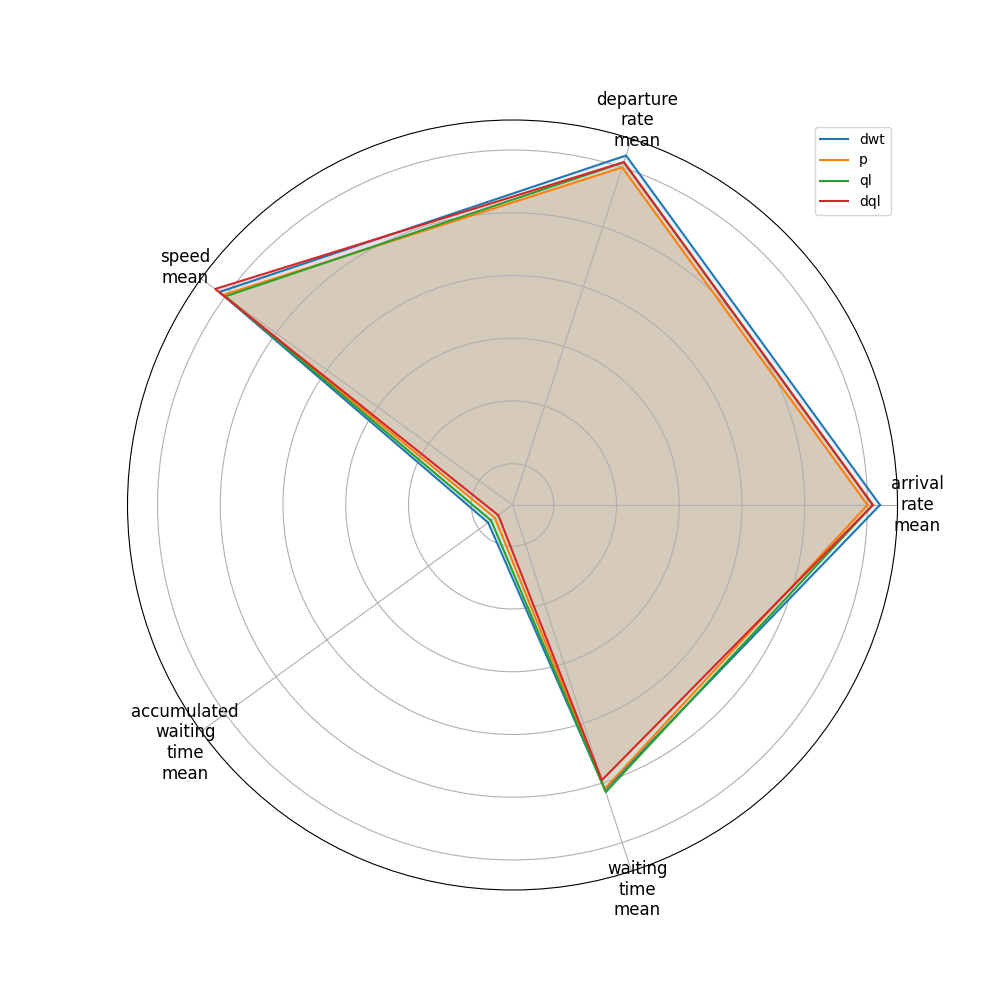
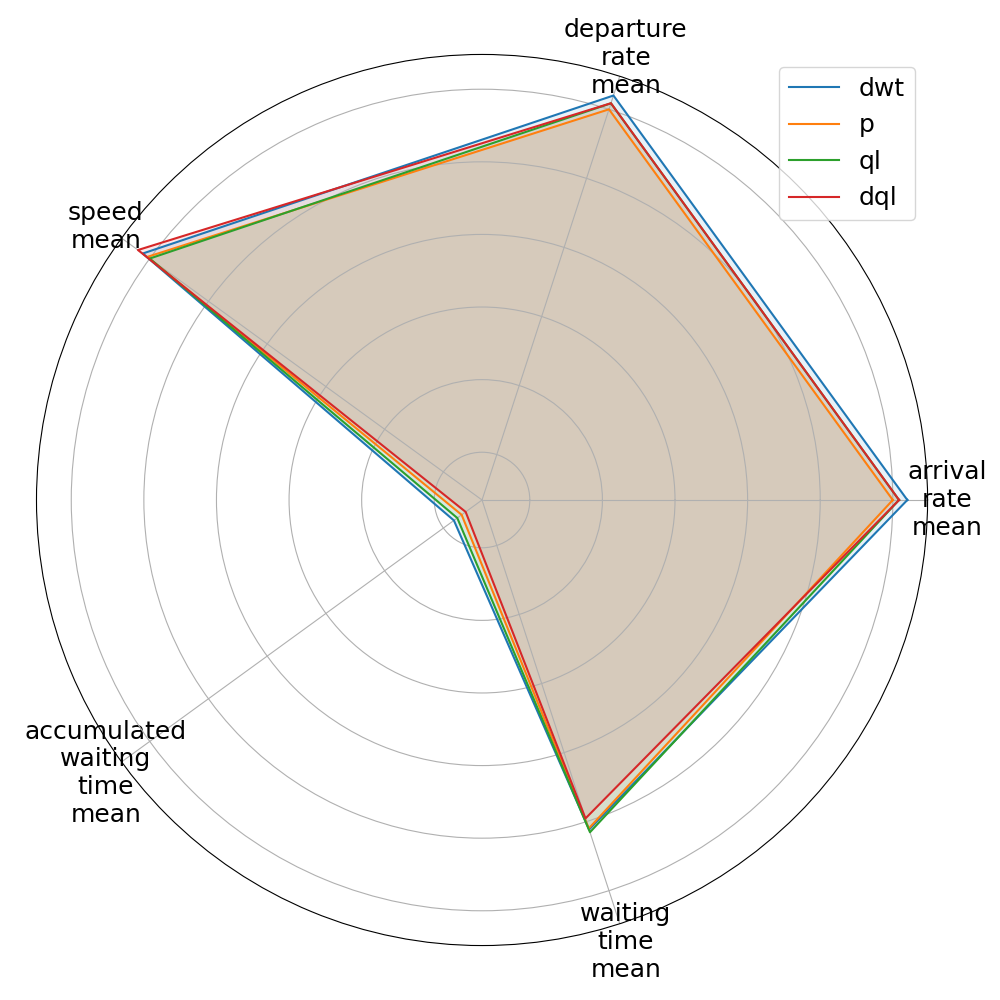
removed RO 5

diff --git a/chapters/experiments.tex b/chapters/experiments.tex
@@ -29,13 +29,13 @@ These configurations have been then evaluated with five runs each (using the sam
 As can be seen in Figure \ref{fig:exp-1-rew-b}, which summarizes the results in a radar plot, the \textit{DiffWaitingTime} (dwt) reward function excels among the other because it grants lower (accumulated) waiting times and is among the highest for average speed, departure rate and arrival rate.
 Meaning that more vehicles can use the intersection network, they can arrive faster at destination and have to wait less time.
 
-\putimage{figures/exp/exp-1-rew-b.png}{Comparison of DiffWaitingTime (dwt), QueueLength (ql), DiffQueueLength (dql) and Pressure (p) reward functions.}{fig:exp-1-rew-b}{1.0}
-
-In the above graph the AverageSpeed (as) reward function is missing, but for a good reason.
+In the last graph the AverageSpeed (as) reward function is missing, but for a good reason.
 As can be seen in Figure \ref{fig:exp-1-rew-a}, AverageSpeed grants a higher average speed but leads to a way worse accumulated waiting time, meaning that at the end of their journey, those vehicles would have been waiting for at least double the time.
 Since its performance are notably worse, to increase the readibility of the previous plot, this component has been removed.
 
-\putimage{figures/exp/exp-1-rew-a.png}{Comparison of DiffWaitingTime (dwt), AverageSpeed (as), QueueLength (ql), DiffQueueLength (dql) and Pressure (p) reward functions.}{fig:exp-1-rew-a}{1.0}
+\putimage{figures/exp/exp-1-rew-b.png}{Comparison of DiffWaitingTime (dwt), QueueLength (ql), DiffQueueLength (dql) and Pressure (p) reward functions.}{fig:exp-1-rew-b}{0.75}
+
+\putimage{figures/exp/exp-1-rew-a.png}{Comparison of DiffWaitingTime (dwt), AverageSpeed (as), QueueLength (ql), DiffQueueLength (dql) and Pressure (p) reward functions.}{fig:exp-1-rew-a}{0.75}
 
 \subsection{RQ 1.2 - Which is the best implemented observation function?}
 
@@ -48,14 +48,14 @@ This means that drivers may feel to be waiting less but in average their travel 
 Both the metric are important to evaluate how much a driver get stuck in traffic jams, since a lower waiting time score may means an higher frequency acceleration-deceleration cycles.
 Every time that a vehicle moves, the waiting time metric get zeroed, since it only measures how much time a driver has been standing still in a precise moment in time.
 
-\putimage{figures/exp/exp-1-obs-b.png}{Comparison of Default (default), Speed (s), Density (d) and Queue (q) observation functions.}{fig:exp-1-obs-b}{1.0}
-
-In the above graphs the Default observation function is missing, but for a good reason.
+In the last graphs the Default observation function is missing, but for a good reason.
 As can be seen in Figure \ref{fig:exp-1-obs-a}, Default grants a higher average speed but leads to a way worse accumulated waiting time, meaning that at the end of their journey, those vehicles would have been waiting for at least double the time.
 Since its performance are notably worse, to increase the readibility of the previous plot, this component has been removed.
 A possible reason to explain this phenomenon is the fact that the state space size of the Default function is way bigger than the rest, thus increasing the sparsity of state information and making it more difficult to capture relevant features.
 
-\putimage{figures/exp/exp-1-obs-a.png}{Comparison of Speed (s), Density (d) and Queue (q) observation functions.}{fig:exp-1-obs-a}{1.0}
+\putimage{figures/exp/exp-1-obs-b.png}{Comparison of Speed (s), Density (d) and Queue (q) observation functions.}{fig:exp-1-obs-b}{0.75}
+
+\putimage{figures/exp/exp-1-obs-a.png}{Comparison of Default (default), Speed (s), Density (d) and Queue (q) observation functions.}{fig:exp-1-obs-a}{0.75}
 
 \subsection{Conclusions}
 
@@ -116,7 +116,7 @@ Notably, the peak-hour disruptions supplied in the \textit{Curriculum Daily + Di
 This means that a curriculum learning driven dataset allows the agents to generalize more and learn a policy of higher quality (with respect to performance and stability) than a collage-like monolithic dataset.
 As a consequence, real-world daily traffic data can be used for training without regret (with the assumption that disruptions often happen on a daily basis).
 
-\putimage{figures/exp/exp-2-dat.png}{Comparison of Monolithic, Curriculum Daily and Curriculum Daily + Disruption datasets.}{fig:exp-2-dat}{1.0}
+\putimage{figures/exp/exp-2-dat.png}{Comparison of Monolithic, Curriculum Daily and Curriculum Daily + Disruption datasets.}{fig:exp-2-dat}{0.75}
 
 % Does curriculum learning leads to better running performances? Yes, it can generalize more and is more stable
 % Is there a loss of knowledge due to curriculum learning not being exhaustive? Probably no
@@ -136,7 +136,7 @@ In fact, their metrics are very similar: the tie is break using the accumulated 
 However, looking at waiting times, the SARSA agent is in average $2$ seconds faster than the Off Policy agents.
 Its slower score record in accumulated waiting time is probably due to SARSA's tendency to favor a faster pace experience over long run waiting time.
 
-\putimage{figures/exp/exp-3-tab.png}{Comparison of QL, SARSA and DQL agents.}{fig:exp-3-tab}{1.0}
+\putimage{figures/exp/exp-3-tab.png}{Comparison of QL, SARSA and DQL agents.}{fig:exp-3-tab}{0.75}
 
 \subsection{RQ 3.2 - Which is the best implemented neural agent?}
 
@@ -149,14 +149,14 @@ Instead, all the intersections where stuck with green light in one direction dur
 A possible explanation is that a DQN model would need more training time to reach the performances of the other neural model.
 This hypothesis is supported with empirical evidence in the field of reinforcement learning \cite{kozlica2023deep}.
 
-\putimage{figures/exp/exp-3-neu.png}{Comparison of DQN and PPO agents.}{fig:exp-3-neu}{1.0}
+\putimage{figures/exp/exp-3-neu.png}{Comparison of DQN and PPO agents.}{fig:exp-3-neu}{0.75}
 
 \subsection{RQ 3.3 - Is Deep Learning worth its cost?}
 
 The results of the experiments being carried out show that, given the same training time and conditions, a sophisticated (yet simple) tabular agent based on Q Learning can easily outperform one of the most popular and powerful neural network algorithm for reinforcement learning.
 Of course, on the long run the PPO agent \textbf{may} be able to gain ground on DQL with more training episodes, but the use of conditional is needed and the empirical evidence \cite{kozlica2023deep} suggests that usually PPO has a initial steep learning curve and after some time it comes into a plateau, just as tabular methods.
 
-\putimage{figures/exp/exp-3-tot.png}{Comparison of DQL and PPO agents.}{fig:exp-3-tot}{1.0}
+\putimage{figures/exp/exp-3-tot.png}{Comparison of DQL and PPO agents.}{fig:exp-3-tot}{0.75}
 
 \section{RO 4 - Comparing Reinforcement Learning with existing solutions}
 
@@ -173,14 +173,12 @@ Interestingly, this holds also for accumulated waiting time, in which there is a
 However, a faster pace traffic light also means that there are frequent acceleration and decelerations, therefore the average speed can be expected to be higher in long cycle times (30, 45, 60).
 Notably, the is an hidden threshold between $15$ seconds and $30$ seconds for which performance is subject to a radical change.
 
-\putimage{figures/exp/exp-4-fca.png}{Comparison of Fixed15, Fixed30, Fixed45 and Fixed60 agents.}{fig:exp-4-fca}{1.0}
+\putimage{figures/exp/exp-4-fca.png}{Comparison of Fixed15, Fixed30, Fixed45 and Fixed60 agents.}{fig:exp-4-fca}{0.75}
 
 \subsection{RQ 4.2 - Are RL Agents an improvement over non-AI solutions?}
 
 Now that the best configuration for cycle time is known, an experiment was run to compare two RL agents (PPO and DQL) with the best FixedCycle agent (Fixed15) and with unregulated intersection.
 The reasoning behind the choice of running also a priority-based intersection is that in urban tissues, not all the busy intersections are regulated with traffic light, therefore the aim is to experimentally verify which is impact of installing a traffic light on such intersections. The results of this experiment are shown in Figure \ref{fig:exp-4-tot}.
-
-\putimage{figures/exp/exp-4-tot.png}{Comparison of Fixed15, PPO and DQL agents and priority based intersections.}{fig:exp-4-tot}{1.0}
 
 The relative inefficiency of unregulated intersections is well-known and it is probably the least interesting suggestion of the radar plot.
 Interestingly, the performances of the PPO agent are very similar to the ones of a traffic light intersection with a cycle time of $15$ seconds.
@@ -188,37 +186,29 @@ This not only shows the limit of efficiency of traffic lights with fixed cycle p
 
 Excluding the instant waiting time, in which its average value is very close to PPO and Fixed15 agents, the DQL agent surpasses by far its competitors in every possible ways.
 Notably, the cost in terms of secondary memory of this agent is roughly $4$ MB, which means that it can be fitted into dedicated boards very easily.
-%
-% Which cycle time grants better performance? fixed30
-% Is fixed cycle traffic light an improvement over unregulated priority based intersections? Yes
-% L'agente RL e' un miglioramento rispetto alle performance delle soluzioni (di base) correnti?
-% Does the best RL agent represent an improvement with respect to performances achieved by current traffic regulation solutions? Yes
 
-\section{RO 5 - Evaluating the impact of learning parameters over performances}
-%   \subsection{E11: Explore Epsilon Greedy curve (DQL)}
-%   \subsection{E12: Explore Buffer Size (PPO)}
-\putimage{figures/exp/exp-5-buf.png}{}{fig:exp-5-buf}{1.0}
+\putimage{figures/exp/exp-4-tot.png}{Comparison of Fixed15, PPO and DQL agents and priority based intersections.}{fig:exp-4-tot}{0.75}
 
-\section{RO 6 - Evaluating the impact of Determinism over performances}
+\section{RO 5 - Evaluating the impact of Determinism over performances}
 %   \subsection{E11: Explore determinism (DQL)}
 %   \subsection{E12: Explore determinism (PPO)}
-\putimage{figures/exp/exp-6-dql.png}{}{fig:exp-6-dql}{1.0}
-\putimage{figures/exp/exp-6-ppo.png}{}{fig:exp-6-ppo}{1.0}
+\putimage{figures/exp/exp-5-dql.png}{}{fig:exp-5-dql}{0.75}
+\putimage{figures/exp/exp-5-ppo.png}{}{fig:exp-5-ppo}{0.75}
 
-\section{RO 7 - Evaluating the impact of Quantization over performances}
+\section{RO 6 - Evaluating the impact of Quantization over performances}
 %   \subsection{E8: Try Unquantized (DQL)}
 %   \subsection{E9: Try Unquantized (PPO)}
-\putimage{figures/exp/exp-7-dql.png}{}{fig:exp-7-dql}{1.0}
-\putimage{figures/exp/exp-7-ppo.png}{}{fig:exp-7-ppo}{1.0}
+\putimage{figures/exp/exp-6-dql.png}{}{fig:exp-6-dql}{0.75}
+\putimage{figures/exp/exp-6-ppo.png}{}{fig:exp-6-ppo}{0.75}
 
-\section{RO 8 - Comparing Multi-Agent Learning with Single-Agent Learning}
+\section{RO 7 - Comparing Multi-Agent Learning with Single-Agent Learning}
 %   \subsection{E5: Try Marl On Observation}
 %   \subsection{E6: Try Marl On Reward}
 %   \subsection{E10: Try Partition}
-\putimage{figures/exp/exp-8-rew.png}{}{fig:exp-8-rew}{1.0}
-\putimage{figures/exp/exp-8-obs.png}{}{fig:exp-8-obs}{1.0}
-\putimage{figures/exp/exp-8-par.png}{}{fig:exp-8-par}{1.0}
+\putimage{figures/exp/exp-7-rew.png}{}{fig:exp-7-rew}{0.75}
+\putimage{figures/exp/exp-7-obs.png}{}{fig:exp-7-obs}{0.75}
+\putimage{figures/exp/exp-7-par.png}{}{fig:exp-7-par}{0.75}
 
-\section{RO 9 - Evaluating the effectiveness of Self-Adaptive strategies}
+\section{RO 8 - Evaluating the effectiveness of Self-Adaptive strategies}
 %   \subsection{E4: Try Self Adaptive}
-\putimage{figures/exp/exp-9-sam.png}{}{fig:exp-9-sam}{1.0}
+\putimage{figures/exp/exp-8-sam.png}{}{fig:exp-8-sam}{0.75}

diff --git a/thesis.tex b/thesis.tex
@@ -27,7 +27,8 @@
 \usepackage{caption}
 \usetikzlibrary{positioning, quotes}
 \usepackage[english]{babel}
-\usepackage[skip=10pt plus1pt, indent=40pt]{parskip}
+%%\usepackage[skip=10pt plus1pt, indent=40pt]{parskip}
+\usepackage{parskip}
 \usepackage[
   backend=bibtex,
   style=ieee,
